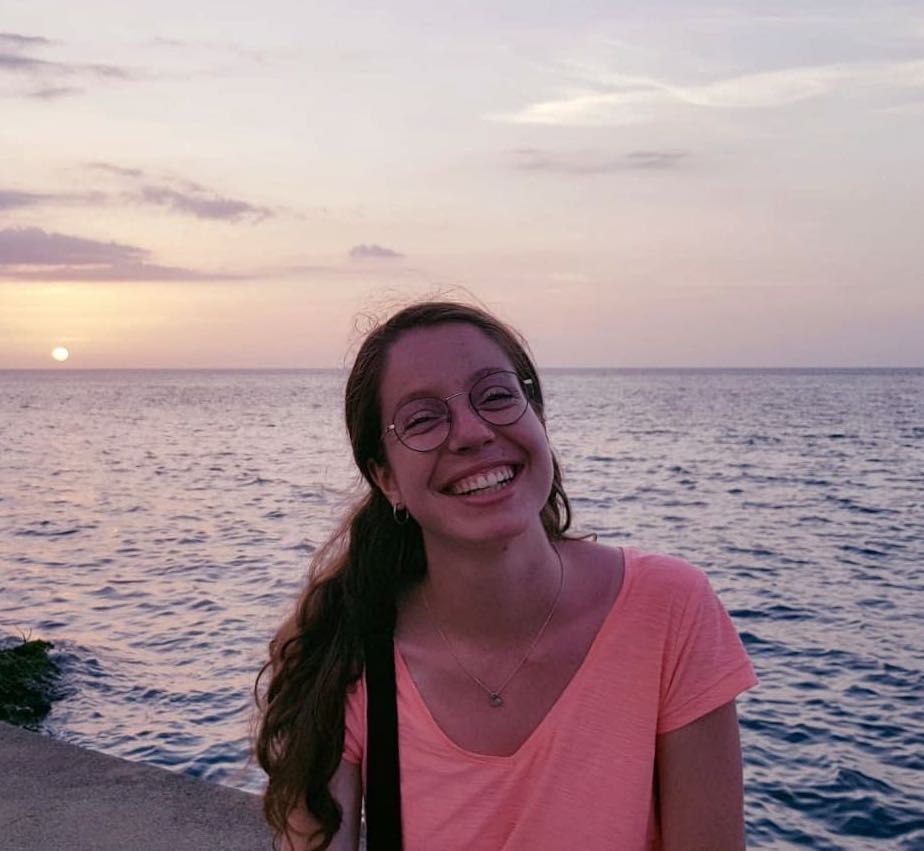
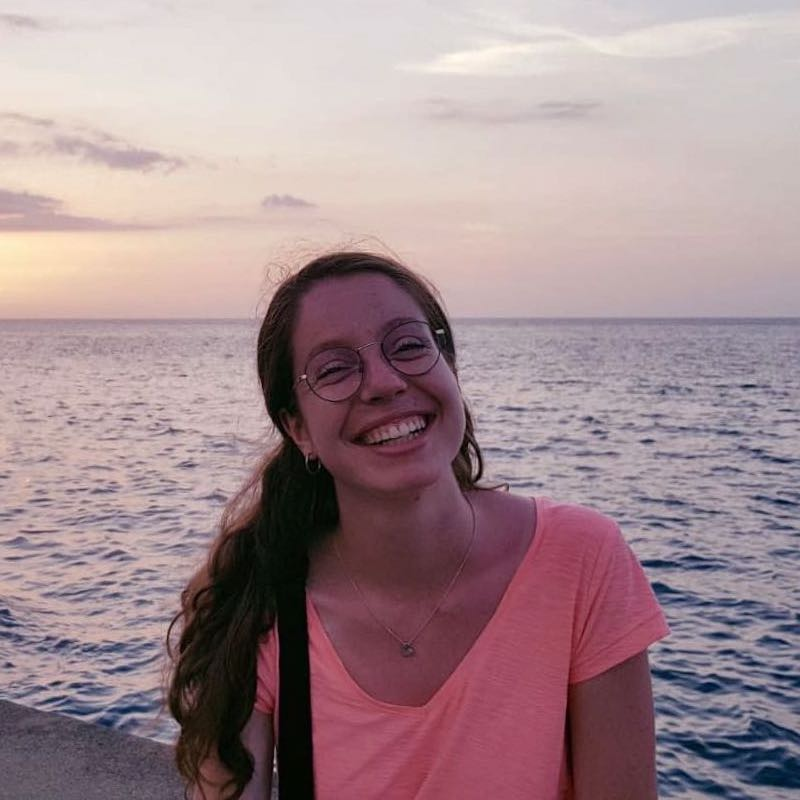
added about us details

diff --git a/webApp/static/styles/about_us.css b/webApp/static/styles/about_us.css
@@ -19,7 +19,7 @@
 
 .about-us-box {
     width: 100%;
-    max-width: 270px;
+    max-width: 200px;
     height: 270px;
     overflow: hidden;
     margin: 15px;
@@ -43,7 +43,7 @@ td, th {
 
 .about-us-name {
     font-weight: bold;
-    /*height: 35px;*/
+    height: 35px;
 }
 
 .about-us-icon {

diff --git a/webApp/about_us_details.py b/webApp/about_us_details.py
@@ -22,11 +22,11 @@ DETAILS = [
         "github": "https://github.com/andreu15",
     },
     {
-        "picture": "dummy_pic.png",
+        "picture": "toni.jpg",
         "name": "Toni Miranda",
-        "email": "",
-        "linkedin": "",
-        "github": "",
+        "email": "tmiranda@utexas.edu",
+        "linkedin": "https://www.linkedin.com/in/tonimiranda",
+        "github": "https://github.com/tmiranda101",
     },
     {
         "picture": "emil.jpg",
